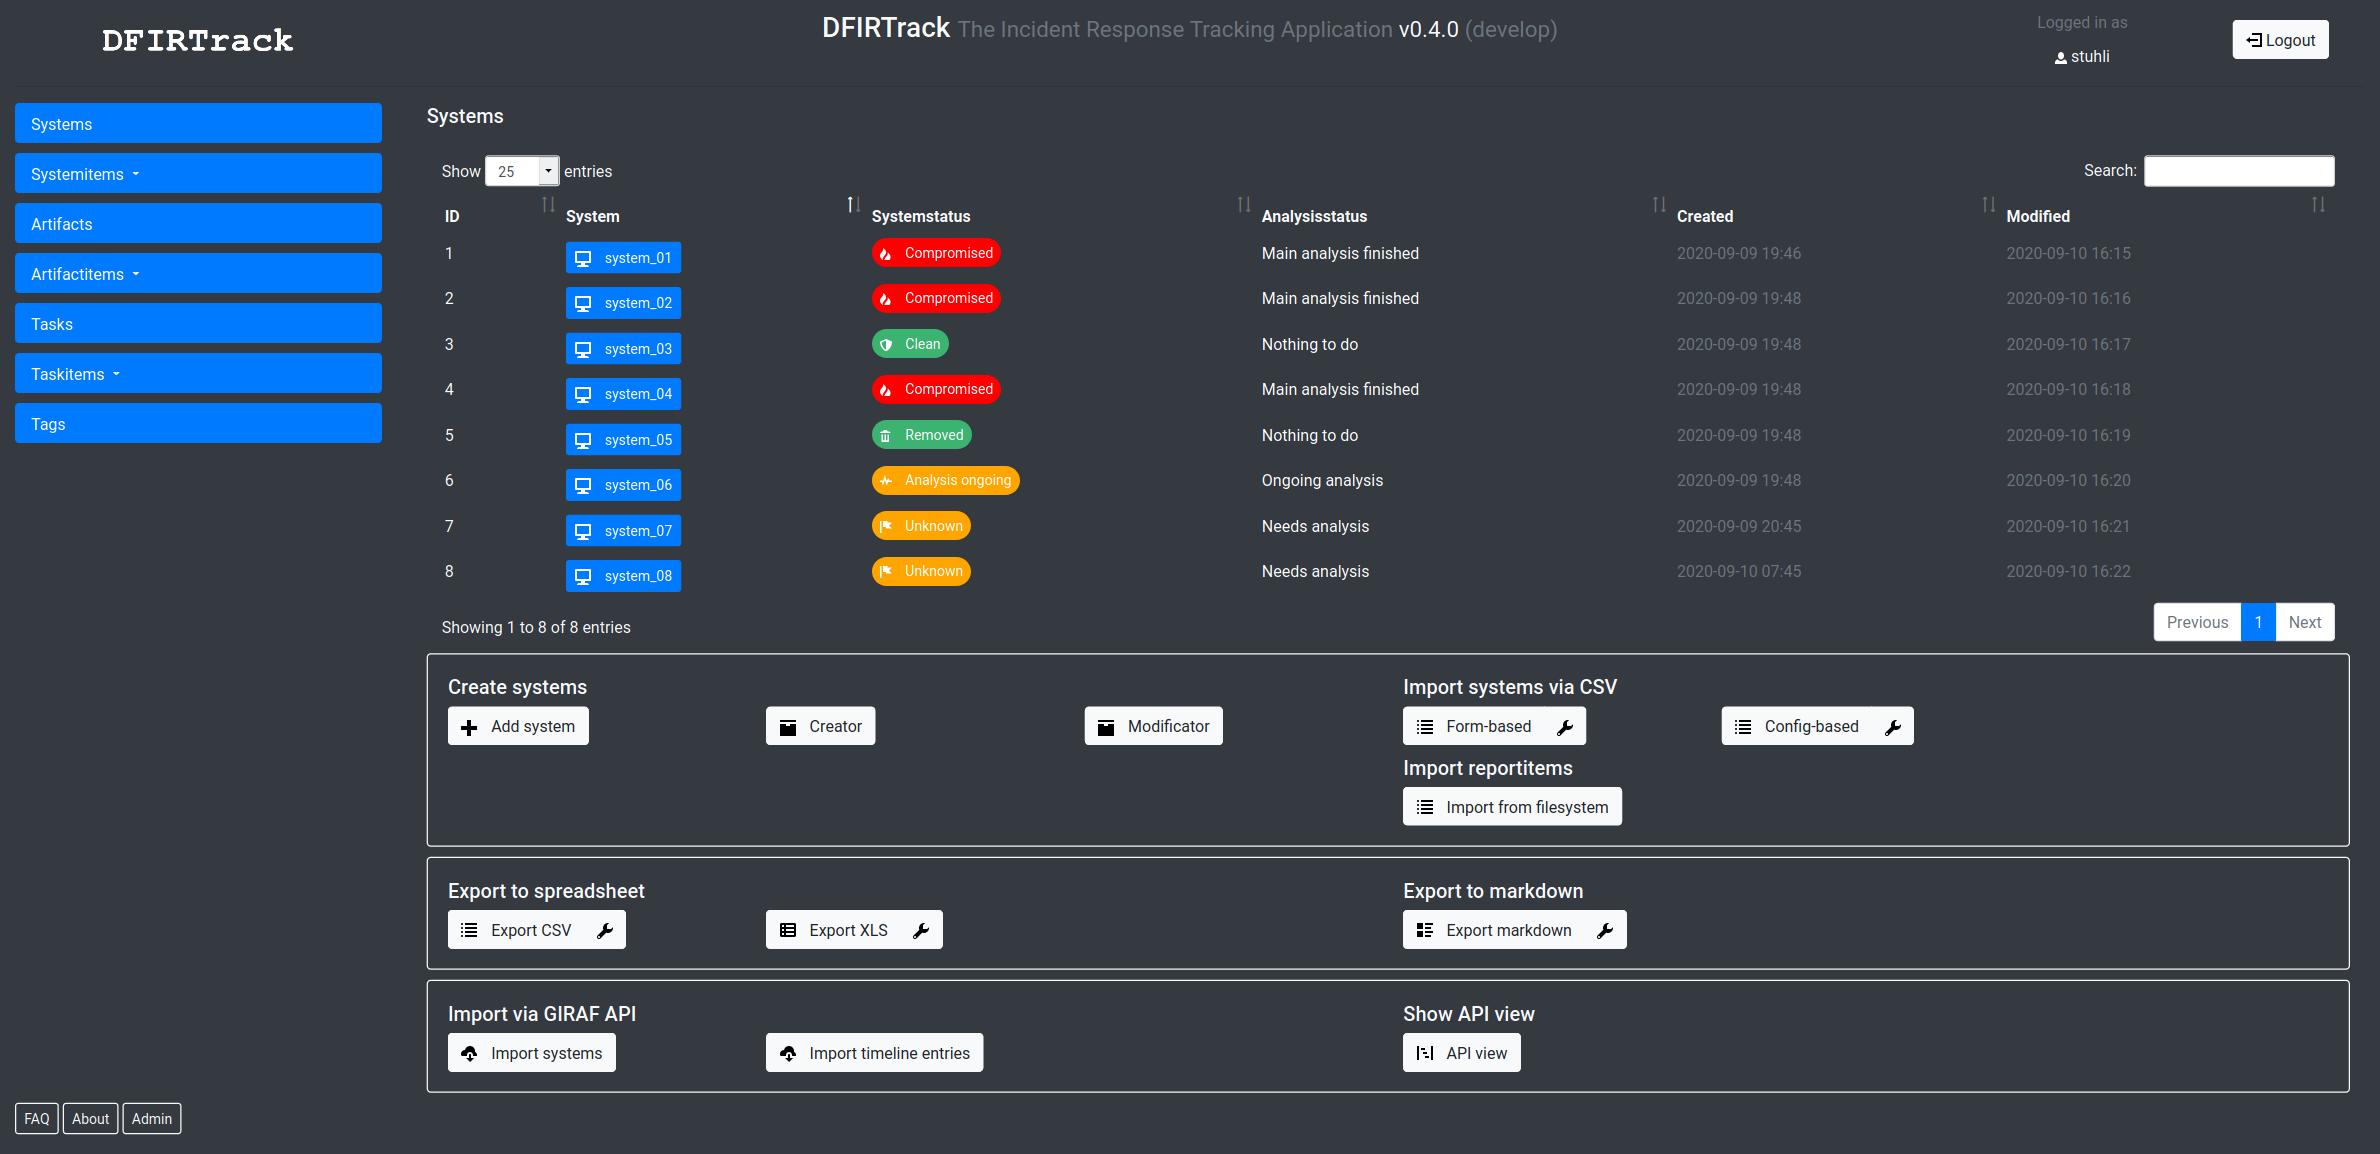
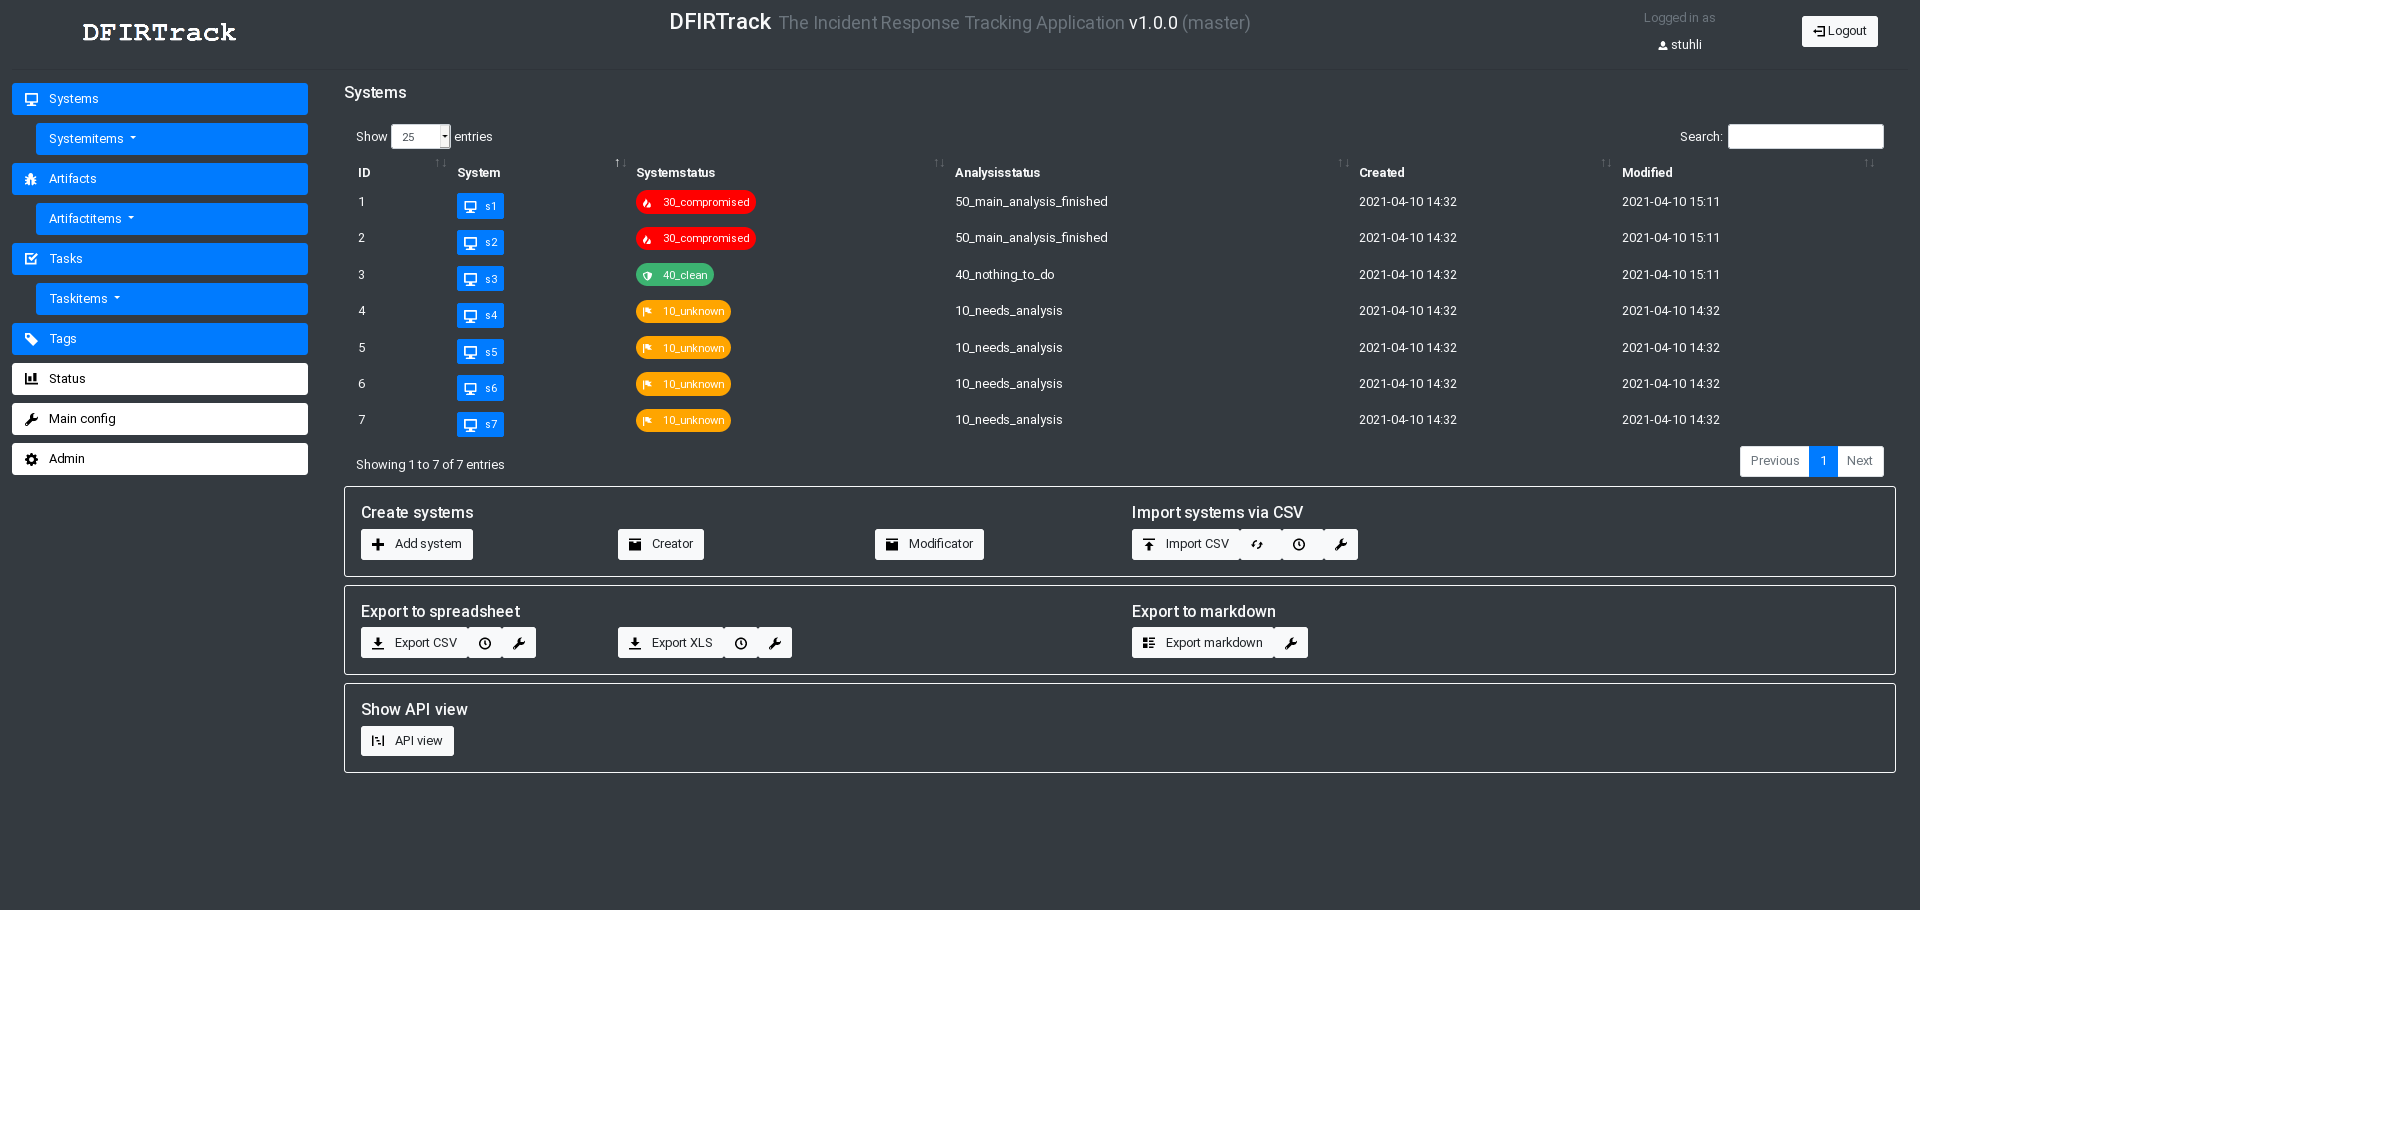
updated everything for version 1.0.0

diff --git a/dfirtrack_main/templatetags/dfirtrack_main_tags.py b/dfirtrack_main/templatetags/dfirtrack_main_tags.py
@@ -6,7 +6,7 @@ register = template.Library()
 
 @register.simple_tag
 def dfirtrack_version():
-    versionnumber = 'v0.4.9'
+    versionnumber = 'v1.0.0'
     return versionnumber
 
 """
